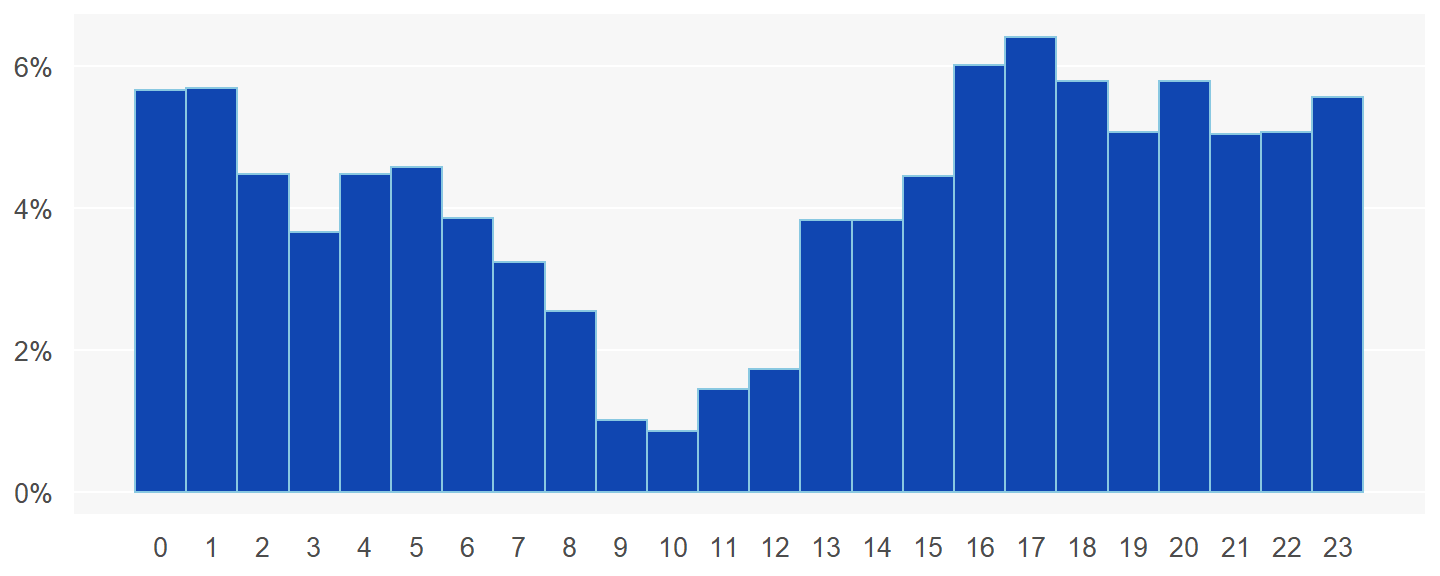
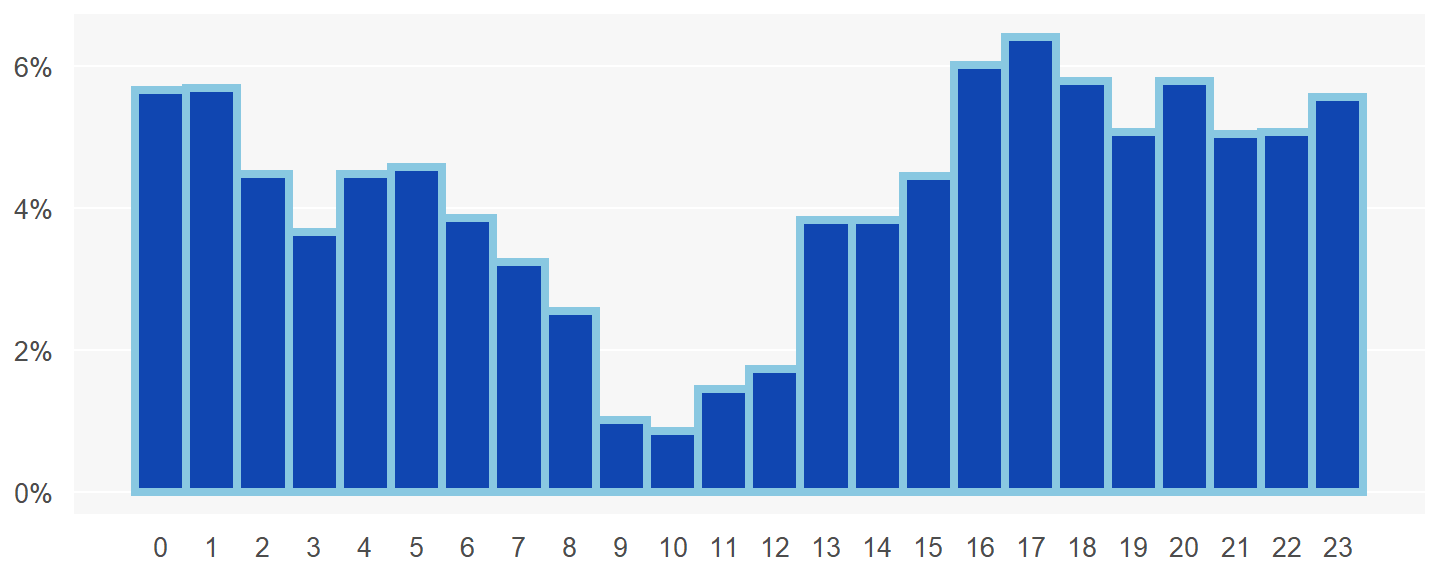
Add files via upload

Changed region(s): [[0.0938, 0.0312, 0.9688, 0.875], [0.3438, 0.4375, 0.375, 0.4688]]

diff --git a/docs/posts/2022-11-13-elon/index.html b/docs/posts/2022-11-13-elon/index.html
@@ -2520,7 +2520,7 @@ Show code
 </summary>
 <div class="sourceCode">
 <pre class="sourceCode r"><code class="sourceCode r"><span><span class='fu'><a href='https://ggplot2.tidyverse.org/reference/ggplot.html'>ggplot</a></span><span class='op'>(</span><span class='va'>df</span>, <span class='fu'><a href='https://ggplot2.tidyverse.org/reference/aes.html'>aes</a></span><span class='op'>(</span>x <span class='op'>=</span> <span class='va'>hour</span><span class='op'>)</span><span class='op'>)</span> <span class='op'>+</span></span>
-<span>  <span class='fu'><a href='https://ggplot2.tidyverse.org/reference/geom_histogram.html'>geom_histogram</a></span><span class='op'>(</span><span class='fu'><a href='https://ggplot2.tidyverse.org/reference/aes.html'>aes</a></span><span class='op'>(</span>y <span class='op'>=</span> <span class='va'>..density..</span><span class='op'>)</span>, binwidth <span class='op'>=</span> <span class='fl'>1</span>, fill <span class='op'>=</span> <span class='st'>"#1046b1"</span>, color <span class='op'>=</span> <span class='st'>"#89c8e1"</span><span class='op'>)</span> <span class='op'>+</span> </span>
+<span>  <span class='fu'><a href='https://ggplot2.tidyverse.org/reference/geom_histogram.html'>geom_histogram</a></span><span class='op'>(</span><span class='fu'><a href='https://ggplot2.tidyverse.org/reference/aes.html'>aes</a></span><span class='op'>(</span>y <span class='op'>=</span> <span class='va'>..density..</span><span class='op'>)</span>, binwidth <span class='op'>=</span> <span class='fl'>1</span>, fill <span class='op'>=</span> <span class='st'>"#1046b1"</span>, color <span class='op'>=</span> <span class='st'>"#89c8e1"</span>, size <span class='op'>=</span> <span class='fl'>1.5</span><span class='op'>)</span> <span class='op'>+</span> </span>
 <span>  <span class='fu'><a href='https://ggplot2.tidyverse.org/reference/scale_continuous.html'>scale_x_continuous</a></span><span class='op'>(</span>breaks <span class='op'>=</span> <span class='fl'>0</span><span class='op'>:</span><span class='fl'>23</span><span class='op'>)</span> <span class='op'>+</span> </span>
 <span>  <span class='fu'><a href='https://ggplot2.tidyverse.org/reference/scale_continuous.html'>scale_y_continuous</a></span><span class='op'>(</span>labels <span class='op'>=</span> <span class='kw'>function</span><span class='op'>(</span><span class='va'>x</span><span class='op'>)</span> <span class='fu'><a href='https://rdrr.io/r/base/paste.html'>paste0</a></span><span class='op'>(</span><span class='fl'>100</span> <span class='op'>*</span> <span class='va'>x</span>, <span class='st'>"%"</span><span class='op'>)</span><span class='op'>)</span> <span class='op'>+</span> </span>
 <span>  <span class='fu'><a href='https://ggplot2.tidyverse.org/reference/theme.html'>theme</a></span><span class='op'>(</span>axis.title <span class='op'>=</span> <span class='fu'><a href='https://ggplot2.tidyverse.org/reference/element.html'>element_blank</a></span><span class='op'>(</span><span class='op'>)</span>,</span>
@@ -2546,7 +2546,7 @@ Show code
 <span>               <span class='fu'><a href='https://rdrr.io/r/base/rep.html'>rep</a></span><span class='op'>(</span><span class='st'>"#1046b1"</span>, <span class='fl'>1</span><span class='op'>)</span><span class='op'>)</span>  <span class='co'># 11pm</span></span>
 <span></span>
 <span><span class='fu'><a href='https://ggplot2.tidyverse.org/reference/ggplot.html'>ggplot</a></span><span class='op'>(</span><span class='va'>df</span>, <span class='fu'><a href='https://ggplot2.tidyverse.org/reference/aes.html'>aes</a></span><span class='op'>(</span>x <span class='op'>=</span> <span class='va'>hour</span><span class='op'>)</span><span class='op'>)</span> <span class='op'>+</span></span>
-<span>  <span class='fu'><a href='https://ggplot2.tidyverse.org/reference/geom_histogram.html'>geom_histogram</a></span><span class='op'>(</span><span class='fu'><a href='https://ggplot2.tidyverse.org/reference/aes.html'>aes</a></span><span class='op'>(</span>y <span class='op'>=</span> <span class='va'>..density..</span><span class='op'>)</span>, binwidth <span class='op'>=</span> <span class='fl'>1</span>, fill <span class='op'>=</span> <span class='va'>daycolors</span>, color <span class='op'>=</span> <span class='st'>"gray97"</span>, size <span class='op'>=</span> <span class='fl'>1</span><span class='op'>)</span> <span class='op'>+</span> </span>
+<span>  <span class='fu'><a href='https://ggplot2.tidyverse.org/reference/geom_histogram.html'>geom_histogram</a></span><span class='op'>(</span><span class='fu'><a href='https://ggplot2.tidyverse.org/reference/aes.html'>aes</a></span><span class='op'>(</span>y <span class='op'>=</span> <span class='va'>..density..</span><span class='op'>)</span>, binwidth <span class='op'>=</span> <span class='fl'>1</span>, fill <span class='op'>=</span> <span class='va'>daycolors</span>, color <span class='op'>=</span> <span class='st'>"gray97"</span>, size <span class='op'>=</span> <span class='fl'>1.5</span><span class='op'>)</span> <span class='op'>+</span> </span>
 <span>  <span class='fu'><a href='https://ggplot2.tidyverse.org/reference/scale_continuous.html'>scale_x_continuous</a></span><span class='op'>(</span>breaks <span class='op'>=</span> <span class='fl'>0</span><span class='op'>:</span><span class='fl'>23</span>, label <span class='op'>=</span> <span class='fu'><a href='https://rdrr.io/r/base/paste.html'>paste0</a></span><span class='op'>(</span><span class='fu'><a href='https://rdrr.io/r/base/c.html'>c</a></span><span class='op'>(</span><span class='fl'>12</span>, <span class='fl'>1</span><span class='op'>:</span><span class='fl'>12</span>, <span class='fl'>1</span><span class='op'>:</span><span class='fl'>11</span><span class='op'>)</span>, <span class='st'>":00"</span><span class='op'>)</span><span class='op'>)</span> <span class='op'>+</span> </span>
 <span>  <span class='fu'><a href='https://ggplot2.tidyverse.org/reference/scale_continuous.html'>scale_y_continuous</a></span><span class='op'>(</span>labels <span class='op'>=</span> <span class='kw'>function</span><span class='op'>(</span><span class='va'>x</span><span class='op'>)</span> <span class='fu'><a href='https://rdrr.io/r/base/paste.html'>paste0</a></span><span class='op'>(</span><span class='fl'>100</span> <span class='op'>*</span> <span class='va'>x</span>, <span class='st'>"%"</span><span class='op'>)</span><span class='op'>)</span> <span class='op'>+</span> </span>
 <span>  <span class='fu'><a href='https://ggplot2.tidyverse.org/reference/scale_manual.html'>scale_fill_manual</a></span><span class='op'>(</span>values <span class='op'>=</span> <span class='fu'><a href='https://rdrr.io/r/base/c.html'>c</a></span><span class='op'>(</span><span class='op'>)</span><span class='op'>)</span> <span class='op'>+</span> </span>
@@ -2563,6 +2563,8 @@ Show code
 <p><img src="elon_files/figure-html5/unnamed-chunk-4-1.png" width="720" data-distill-preview=1 /></p>
 </div>
 <aside>
+<br>
+<br>
 <div class="layout-chunk" data-layout="l-body">
 <p><img src="https://media.tenor.com/dT8haFvTVyEAAAAd/elon-musk-funny-dance-party.gif" /><!-- --></p>
 </div>
